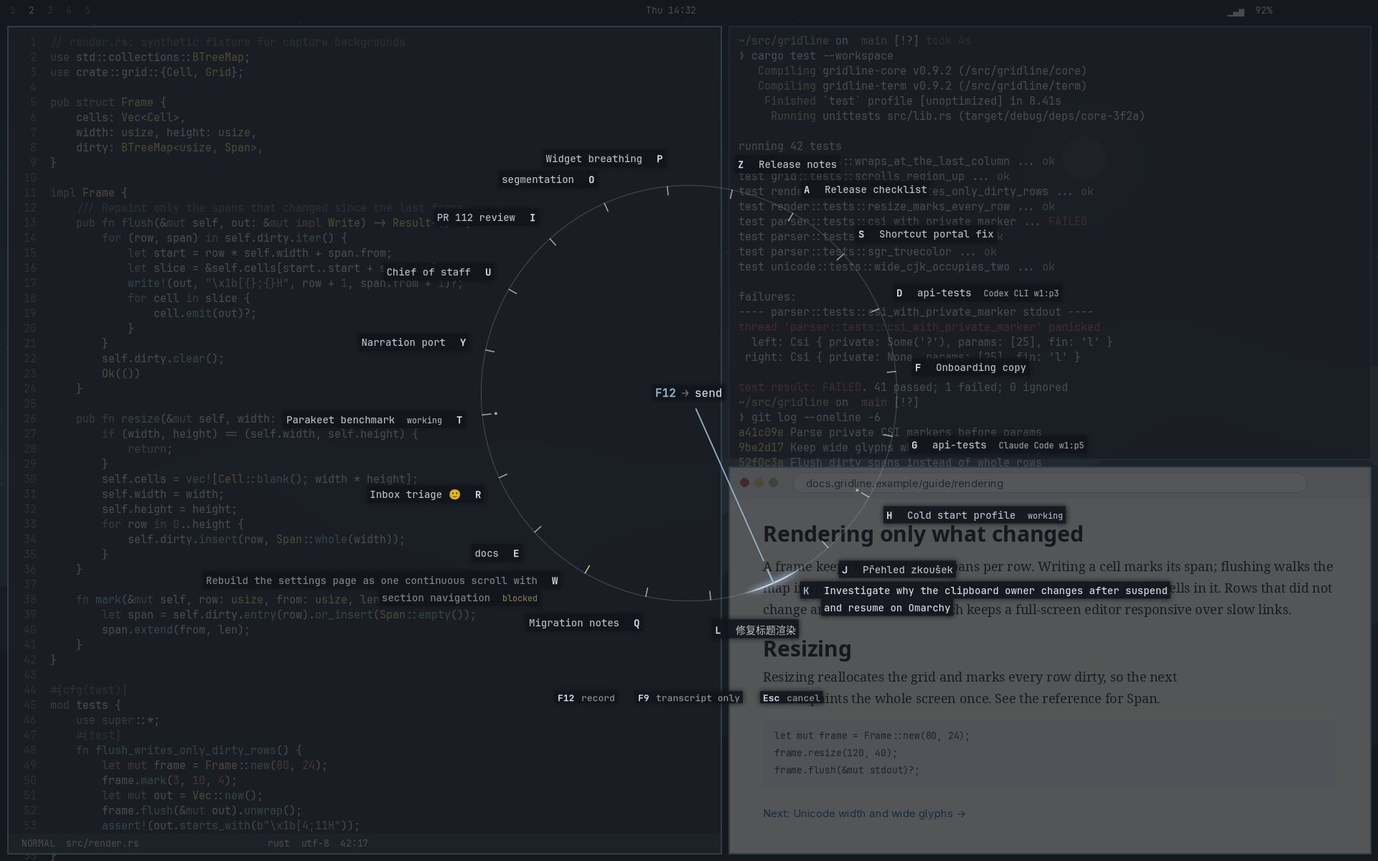
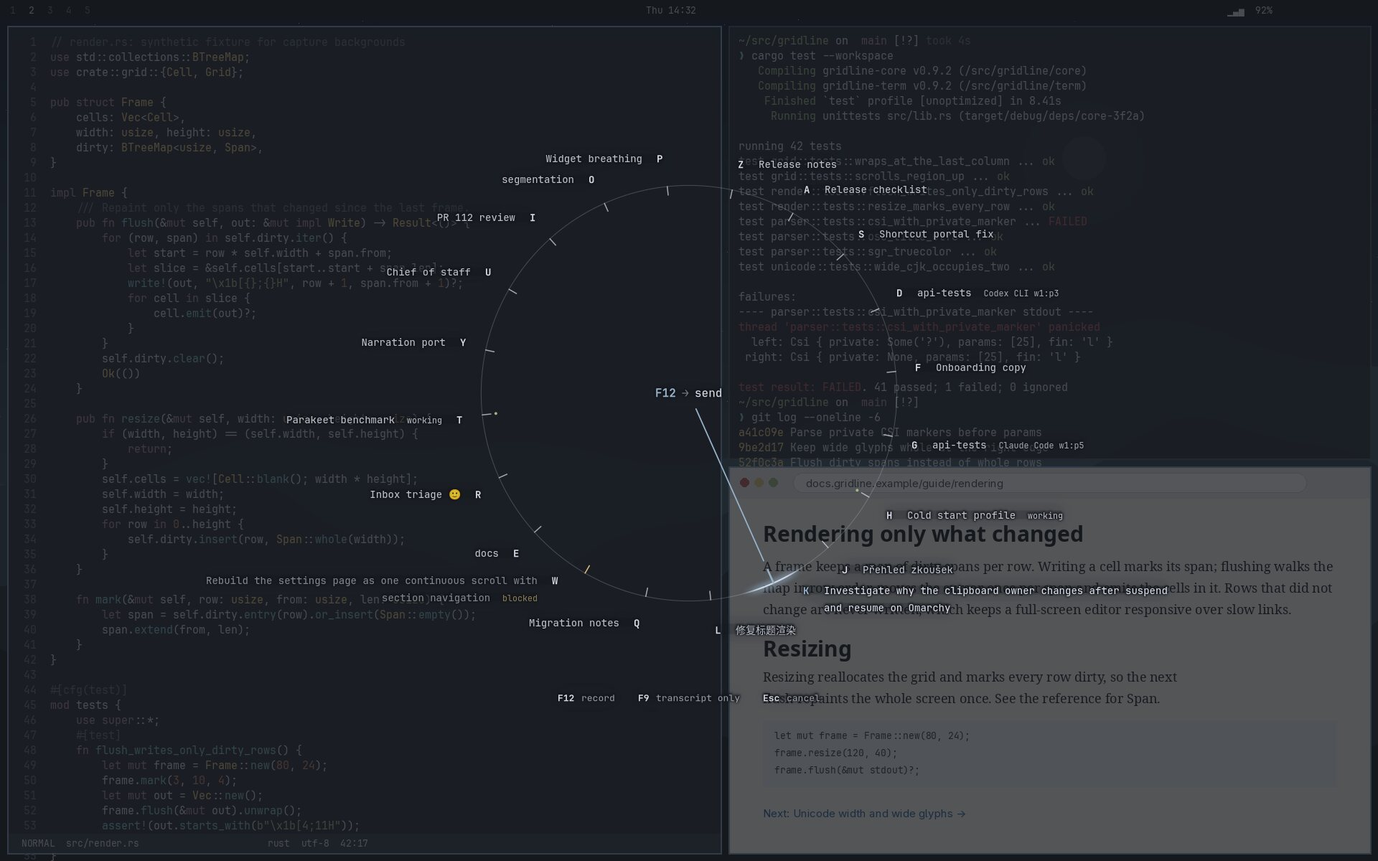
Turn the hand where it stands on a new choice and clear only the glyphs fully
A second finish review found two regressions. A second choice made after
the hand had swept past the new tick let it carry on about 5 degrees and
come back, which read as a bounce. And the cleared cells, stronger than
the wash, read as panels over empty ground: faint dark boxes on Nord and
near-white chips on the light theme.

Motion:
- A new choice keeps the hand's place and its speed toward the new tick,
  held just firm enough not to pass it, and drops any speed away from it,
  so from that moment the hand never moves further from its tick. A test
  checks this frame by frame for ticks ahead, behind and further on.

Look:
- Each label's glyphs, spread 1.5 px and softened, are cleared at 0.9
  (0.6 on a light theme), and the pager arrows along their own icon, so
  desktop text never runs through a letter.
- Around them a faint cell, feathered over 20 px, quiets the desktop
  between letters and lines at 0.3 (0.05 on a light theme): over empty
  ground it is about one step of lightness from the wash. The strengths
  come from a sweep at 100% over empty ground and busy text.

The gallery's motion reel also records each frame's time. The record has
the sweep, the corrected plot of the hand against time, fresh captures in
every palette and the window fallback, the re-rendered motion reel and
its frame costs pooled over three runs.

Changed region(s): [[0.5312, 0.6475, 0.8438, 0.74], [0.625, 0.5858, 0.7812, 0.6167], [0.5312, 0.8017, 0.5938, 0.8325]]

diff --git a/rust/mluva-gtk/src/agent_session_wheel/stage.rs b/rust/mluva-gtk/src/agent_session_wheel/stage.rs
@@ -20,15 +20,17 @@ const FOOTER_GAP: f64 = 16.;
 /// an opaque ground instead.
 const WASH: f32 = 0.72;
 /// Under every label the overlay clears the desktop, as a terminal overwrites the cells it prints
-/// in, in two layers of the wash's colour. Close behind the glyphs, out to `GLYPH_REACH` pixels
-/// and softened over `GLYPH_SOFT`, it clears at the full strength, so desktop text never runs
-/// through a letter. Around them a faint cell reaches `CELL_PAD` beyond the text sideways and up
-/// and down and feathers out over `FEATHER` pixels: it quiets desktop text between the letters
-/// and lines yet stays so light that over empty ground it cannot be told from the wash, so it is
-/// never a panel. Each strength is `(glyphs, cell)`; a light wash over a dark desktop lifts the
-/// ground the most, so the light theme clears more gently.
+/// in, in two layers of the wash's colour. Close behind the glyphs and pager arrows, out to
+/// `GLYPH_REACH` pixels and softened over `GLYPH_SOFT`, it clears at the full strength, so desktop
+/// text never runs through a letter. Around them a faint cell reaches `CELL_PAD` beyond the text
+/// sideways and up and down and feathers out over `FEATHER` pixels: it quiets desktop text between
+/// the letters and lines, yet over empty ground it differs from the wash by about one step of
+/// lightness (CIE L*), too little to read as a panel. Each strength is `(glyphs, cell)`. A light
+/// wash over a dark desktop moves furthest from the ground, about seven times as far as a dark
+/// wash, while desktop text through it shows lighter than the ground and the labels darker; so the
+/// light theme clears more gently and its labels still win.
 const CLEAR_DARK: (f32, f32) = (0.9, 0.3);
-const CLEAR_LIGHT: (f32, f32) = (0.6, 0.1);
+const CLEAR_LIGHT: (f32, f32) = (0.6, 0.05);
 const GLYPH_REACH: f32 = 1.5;
 const GLYPH_SOFT: f64 = 2.;
 const CELL_PAD: (f64, f64) = (8., 4.);
@@ -415,7 +417,7 @@ mod imp {
                     .collect(),
                 glyphs: glyphs
                     .iter()
-                    .map(|(layout, at, shown)| (layout.text(), [at.x(), at.y(), *shown]))
+                    .map(|(ink, at, shown)| (ink.text(), [at.x(), at.y(), *shown]))
                     .collect(),
                 paint: [
                     color.red(),
@@ -703,14 +705,32 @@ pub(super) struct CellKey {
 /// covers.
 type BakedCells = (CellKey, gdk::Texture, graphene::Rect);
 
+/// What the stage paints for a label or an image: a label's whole layout, or a named icon such
+/// as a pager arrow with its name and its side in pixels.
+#[derive(Clone)]
+enum Ink {
+    Text(gtk::pango::Layout),
+    Icon(glib::GString, gdk::Paintable, f32),
+}
+
+impl Ink {
+    /// What it shows, so a bake can tell when it changes.
+    fn text(&self) -> glib::GString {
+        match self {
+            Self::Text(layout) => layout.text(),
+            Self::Icon(name, ..) => name.clone(),
+        }
+    }
+}
+
 /// One laid-out line of a label, in the stage's coordinates: its logical box, its baseline,
 /// whether it is the text of a name or legend entry that has keyboard focus, and on the first
-/// line of each label, the label's layout with where its origin sits.
+/// line of each label or for an image, what is painted there with where its origin sits.
 struct Line {
     rect: graphene::Rect,
     baseline: f64,
     focused: bool,
-    layout: Option<(gtk::pango::Layout, graphene::Point)>,
+    ink: Option<(Ink, graphene::Point)>,
 }
 
 /// Every line of text in `widget` and the widgets below it, as the stage will paint it, with
@@ -737,7 +757,7 @@ fn text_lines(stage: &Stage, widget: &gtk::Widget, found: &mut dyn FnMut(Line)) 
         let (ox, oy) = label.layout_offsets();
         let mut whole = label
             .compute_point(stage, &graphene::Point::new(ox as f32, oy as f32))
-            .map(|origin| (layout.clone(), origin));
+            .map(|origin| (Ink::Text(layout.clone()), origin));
         let scale = f64::from(gtk::pango::SCALE);
         let mut iter = layout.iter();
         loop {
@@ -758,7 +778,7 @@ fn text_lines(stage: &Stage, widget: &gtk::Widget, found: &mut dyn FnMut(Line)) 
                     ),
                     baseline: baseline + lift,
                     focused,
-                    layout: whole.take(),
+                    ink: whole.take(),
                 });
             }
             if !iter.next_line() {
@@ -767,13 +787,35 @@ fn text_lines(stage: &Stage, widget: &gtk::Widget, found: &mut dyn FnMut(Line)) 
         }
         return;
     }
-    if widget.is::<gtk::Image>() {
+    if let Some(image) = widget.downcast_ref::<gtk::Image>() {
         if let Some(bounds) = widget.compute_bounds(stage) {
+            // The icon as GTK draws it: at its pixel size, centred in the image's box.
+            let ink = image.icon_name().map(|name| {
+                let side = match image.pixel_size() {
+                    side if side > 0 => side,
+                    _ if image.icon_size() == gtk::IconSize::Large => 32,
+                    _ => 16,
+                };
+                let paintable = gtk::IconTheme::for_display(&image.display()).lookup_icon(
+                    &name,
+                    &[],
+                    side,
+                    image.scale_factor(),
+                    gtk::TextDirection::None,
+                    gtk::IconLookupFlags::empty(),
+                );
+                let side = side as f32;
+                let origin = graphene::Point::new(
+                    bounds.x() + (bounds.width() - side) / 2.,
+                    bounds.y() + (bounds.height() - side) / 2.,
+                );
+                (Ink::Icon(name, paintable.upcast(), side), origin)
+            });
             found(Line {
                 rect: bounds,
                 baseline: f64::from(bounds.y() + bounds.height()),
                 focused: false,
-                layout: None,
+                ink,
             });
         }
         return;
@@ -826,33 +868,32 @@ fn cell_boxes(
     bounds.map(|bounds| (boxes, bounds))
 }
 
-/// Each shown label's layout with where its paint sits and how much it shows.
-fn glyph_runs(
-    lines: &[(Line, f64, (f64, f64))],
-) -> Vec<(gtk::pango::Layout, graphene::Point, f32)> {
+/// What each shown label or image paints, with where its paint sits and how much it shows.
+fn glyph_runs(lines: &[(Line, f64, (f64, f64))]) -> Vec<(Ink, graphene::Point, f32)> {
     lines
         .iter()
         .filter(|(_, shown, _)| *shown > 0.)
         .filter_map(|(line, shown, (dx, dy))| {
-            let (layout, origin) = line.layout.as_ref()?;
+            let (ink, origin) = line.ink.as_ref()?;
             let at = graphene::Point::new(
                 (f64::from(origin.x()) + dx) as f32,
                 (f64::from(origin.y()) + dy) as f32,
             );
-            Some((layout.clone(), at, *shown as f32))
+            Some((ink.clone(), at, *shown as f32))
         })
         .collect()
 }
 
 /// Paint the cleared cells: one mask, so layers that meet or overlap never darken twice, filled
 /// with `color` over `bounds`. The mask holds the faint feathered cells and, over them, every
-/// label's glyphs spread a little in each direction and softened, at the full strength.
+/// label's glyphs and every image spread a little in each direction and softened, at the full
+/// strength.
 fn paint_cells(
     snapshot: &gtk::Snapshot,
     color: gtk::gdk::RGBA,
     (glyph_strength, cell_strength): (f32, f32),
     boxes: &[(graphene::Rect, f32)],
-    glyphs: &[(gtk::pango::Layout, graphene::Point, f32)],
+    glyphs: &[(Ink, graphene::Point, f32)],
     bounds: &graphene::Rect,
 ) {
     snapshot.push_mask(gtk::gsk::MaskMode::Alpha);
@@ -874,9 +915,9 @@ fn paint_cells(
     }
     snapshot.push_blur(GLYPH_SOFT);
     let black = gtk::gdk::RGBA::new(0., 0., 0., 1.);
-    for (layout, at, shown) in glyphs {
-        // The glyphs and eight copies around them, as one shape at the label's strength.
+    for (ink, at, shown) in glyphs {
         snapshot.push_opacity(f64::from(shown * glyph_strength));
+        // The glyphs or the icon and eight copies around them, as one shape at the strength.
         for step in 0..9 {
             let (dx, dy) = if step == 0 {
                 (0., 0.)
@@ -886,7 +927,12 @@ fn paint_cells(
             };
             snapshot.save();
             snapshot.translate(&graphene::Point::new(at.x() + dx, at.y() + dy));
-            snapshot.append_layout(layout, &black);
+            match ink {
+                Ink::Text(layout) => snapshot.append_layout(layout, &black),
+                Ink::Icon(_, paintable, side) => {
+                    paintable.snapshot(snapshot, f64::from(*side), f64::from(*side))
+                }
+            }
             snapshot.restore();
         }
         snapshot.pop();
@@ -1096,7 +1142,8 @@ impl Stage {
     }
 
     /// Turn the hand to `angle`, or put it away when nothing is chosen. A swing springs from
-    /// wherever the hand is, at its present speed; anything else places it at once.
+    /// wherever the hand is, keeping its speed toward the new tick and dropping any away from it;
+    /// anything else places it at once.
     pub fn aim(&self, angle: Option<f64>, swing: bool) {
         let swing = swing && (self.animated() || self.imp().manual.get());
         self.imp().motion.borrow_mut().aim(angle, swing);
@@ -1263,29 +1310,21 @@ mod tests {
     }
 
     #[test]
-    fn a_new_choice_mid_swing_bends_the_swing_and_never_passes_the_new_tick() {
-        // A tick just ahead of a hand already rushing toward it, a tick short of the first one,
-        // and a tick further on: the swing bends and never passes the new tick.
-        for (frames, to) in [(1, 60.), (2, 120.), (3, 250.)] {
-            let (_, past) = retarget(frames, to);
-            assert!(past <= 1e-9, "{frames} frames, {to}°: passes it by {past}°");
-        }
-    }
-
-    #[test]
-    fn after_a_new_choice_the_hand_never_moves_further_from_its_tick() {
-        // The hand has just passed the new tick, has passed it long ago, or heads the other way
-        // round entirely: it turns where it is and closes on the tick.
-        // Ahead, and further on, it keeps its speed and stops on the tick.
+    fn after_a_new_choice_the_hand_never_moves_further_from_its_tick_nor_passes_it() {
         for (frames, to) in [
+            // Ahead of the hand swinging from 30° to 200°: just in front of it, halfway to the
+            // first tick and a degree short of it.
+            (1, 60.),
+            (2, 120.),
+            (5, 199.),
+            // Behind it: just swept past, swept past long ago, back beyond where the swing
+            // started, and passed mid-swing.
             (2, 60.),
             (6, 60.),
             (4, 20.),
             (8, 100.),
-            (1, 60.),
-            (2, 120.),
+            // Further on, beyond the first tick.
             (3, 250.),
-            (5, 199.),
         ] {
             let (grows, past) = retarget(frames, to);
             assert!(

diff --git a/rust/mluva-gtk/examples/session_wheel_gallery.rs b/rust/mluva-gtk/examples/session_wheel_gallery.rs
@@ -484,7 +484,8 @@ fn motion(output: &Path) -> glib::ExitCode {
     std::fs::create_dir_all(&frames).unwrap();
     let mut index = 0;
     let mut timings: Vec<(String, f64)> = vec![];
-    // Every frame's scene and the hand's bearing, for a plot of the hand against time.
+    // Every frame's scene, the hand's bearing and how long the frame took, for a plot of the
+    // hand against time and to find slow frames.
     let mut hands: Vec<serde_json::Value> = vec![];
     let mut play = |wheel: &SessionWheel, scene: &str, count: usize| {
         for _ in 0..count {
@@ -493,7 +494,12 @@ fn motion(output: &Path) -> glib::ExitCode {
             settle(1);
             let seconds = frame(&wheel.window, &frames.join(format!("{index:05}.png")));
             timings.push((scene.to_owned(), seconds));
-            hands.push(serde_json::json!({"frame": index, "scene": scene, "hand": hand}));
+            hands.push(serde_json::json!({
+                "frame": index,
+                "scene": scene,
+                "hand": hand,
+                "ms": seconds * 1000.,
+            }));
             index += 1;
         }
     };

diff --git a/docs/verification/f12-session-wheel/README.md b/docs/verification/f12-session-wheel/README.md
@@ -17,7 +17,7 @@ A session without a title shows its Herdr agent name, then its pane ID. This is 
 
 On Omarchy the wheel floats over the desktop like Omarchy's own launcher, with no window, frame or card. It is a wlr-layer-shell overlay that covers the focused monitor, panels included, and takes the keyboard while it is shown.
 
-The desktop shows through. Between it and the dial lies one flat translucent wash: the theme's canvas pulled 60% toward black (toward white on a light theme), like a terminal's background, at 72%. It has no gradient, so nothing can band, and there is no disc, panel or vignette. About 28% of the desktop's contrast survives it, against 12% for a canvas-grey wash at 88%, the strength needed for the same legibility without the darker colour ([sweep](wash-sweep.jpg)). Under every line of text the overlay clears the cells, as a terminal overwrites the cells it prints in: the wash's colour at 0.9, about a cell beyond the text sideways and 4 px above and below, feathered over 8 px, with no radius or stroke. A key and the first line of its name are cleared as one span. Over the empty wash the cleared cells cannot be seen, so they are no panel; over the desktop they keep terminal text or a bright page from reading as part of a name, while the desktop between the names stays visible. Mluva's managed Hyprland Lua gives the `mluva-session-wheel` namespace a `no_anim` layer rule, as Omarchy does for its own menus, so the wheel appears with no compositor fade of its own; the dial then fades in over at most 160 ms. The rule is kept as one handle across reloads: a live rule is reused, a switched-off one is switched on and a rule the compositor dropped is made again, so reloads never stack duplicates. It runs under `pcall` after the bindings, so a Hyprland without layer rules, or any error in the rule, never stops the bindings from applying. Clicking anywhere outside a control dismisses the overlay, like Escape.
+The desktop shows through. Between it and the dial lies one flat translucent wash: the theme's canvas pulled 60% toward black (toward white on a light theme), like a terminal's background, at 72%. It has no gradient, so nothing can band, and there is no disc, panel or vignette. About 28% of the desktop's contrast survives it, against 12% for a canvas-grey wash at 88%, the strength needed for the same legibility without the darker colour ([sweep](wash-sweep.jpg)). Under every label the overlay clears the desktop, as a terminal overwrites the cells it prints in, in two layers of the wash's colour. Tight behind the glyphs and the pager arrows, spread 1.5 px and softened over 2 px, it clears at 0.9 (0.6 on a light theme), so terminal text or a bright page never runs through a letter. Around them a faint cell reaches about a cell beyond the text sideways and 4 px above and below, feathered over 20 px, at 0.3 (0.05 on a light theme): it quiets desktop text between the letters and lines, holding it to 70% of its washed contrast, yet over empty ground it differs from the wash by about one step of lightness, too little to read as a panel. A key and the first line of its name share one cell. A light wash over a dark desktop moves furthest from the ground, about seven times as far as a dark wash, while desktop text through it shows lighter than the ground and the labels darker, so the light theme clears more gently and its labels still win ([sweep of cell strengths, at 100%](cell-sweep.png)). The desktop between the names stays visible. Mluva's managed Hyprland Lua gives the `mluva-session-wheel` namespace a `no_anim` layer rule, as Omarchy does for its own menus, so the wheel appears with no compositor fade of its own; the dial then fades in over at most 160 ms. The rule is kept as one handle across reloads: a live rule is reused, a switched-off one is switched on and a rule the compositor dropped is made again, so reloads never stack duplicates. It runs under `pcall` after the bindings, so a Hyprland without layer rules, or any error in the rule, never stops the bindings from applying. Clicking anywhere outside a control dismisses the overlay, like Escape.
 
 On X11, or on compositors without layer-shell, the same wheel opens as an ordinary frameless dialog whose ground is the same wash colour, opaque, since a window there cannot be relied on to show the desktop through. The offscreen tests use that path.
 
@@ -36,7 +36,7 @@ The dial is drawn live in a few thin lines with GtkSnapshot; nothing is baked, s
 - **Status line.** One quiet line just under the names explains a level, a draft, a page or a withdrawn choice: "Arrives as a message from another Claude session", "This session has no inbox", "Chosen on page 2", "Answer its prompt where it runs, or choose another session", "Mluva can't find it now; choose another session". It always holds one line, so a new choice moves nothing.
 - **Legend.** `F12 record   F9 transcript only   Esc cancel`, under the status line, with the pager beyond 26 sessions. Record dims while it is withdrawn. The hub and the legend both show F12: the hub says what pressing it will do; the legend's Record is the real button, the one the pointer and a screen reader act through.
 
-Per frame the stage draws the wash, the cleared cells (baked once into a texture and reused until a name moves or focus changes), the ring, the trace, the ticks and the hand: a few strokes and one small blur clipped to the lit arc.
+Per frame the stage draws the wash, the cleared cells (baked once into a texture and reused until a name moves or its text changes), the ring, the trace, the ticks and the hand: a few strokes and one small blur clipped to the lit arc.
 
 ## Motion
 
@@ -75,20 +75,22 @@ The opening and a swing to the opposite side at fixed timestamps, over the busy 
 
 The whole reel as it plays, from the production renderer on a stepped 60 fps clock ([GIF](motion.gif)): opening with 6 and 20 sessions, a short hop, a hop across the dial, a new choice mid-swing, a blocked choice and a page turn at 30 sessions.
 
-Frame cost on the cairo renderer the private desktop uses, from a release build of the gallery: each frame snapshots the whole 1920×1200 window and renders it to a texture. That is a worst case, since on screen GTK repaints only what changed; the budget at 60 fps is 16.7 ms.
+Frame cost on the cairo renderer the private desktop uses, from a release build of the gallery: each frame snapshots the whole 1920×1200 window and renders it to a texture. That is a worst case, since on screen GTK repaints only what changed; the budget at 60 fps is 16.7 ms. The figures pool three runs of the reel, taken while the machine was busy with other work (load average about 8 on 20 threads).
 
-| Scene | Frames | Median ms | 95th percentile ms | Slowest ms |
+| Scene | Frames per run | Median ms | 95th percentile ms | Slowest ms |
 | --- | --- | --- | --- | --- |
-| Opening, 6 sessions | 45 | 8.7 | 9.5 | 10.2 |
-| Opening, 20 sessions | 45 | 10.1 | 12.1 | 14.7 |
-| Short hop | 30 | 9.3 | 10.5 | 10.7 |
-| Hop across the dial | 40 | 11.1 | 15.0 | 16.1 |
-| New choice mid-swing | 40 | 11.4 | 15.9 | 16.8 |
-| Blocked choice | 45 | 10.7 | 14.6 | 15.9 |
-| Opening, 30 sessions | 36 | 11.3 | 12.7 | 13.3 |
-| Page turn | 30 | 4.3 | 5.3 | 5.5 |
+| Opening, 6 sessions | 45 | 9.0 | 14.3 | 20.7 |
+| Opening, 20 sessions | 45 | 9.1 | 12.8 | 18.9 |
+| Short hop | 30 | 8.0 | 9.8 | 12.2 |
+| Hop across the dial | 40 | 9.4 | 14.2 | 21.2 |
+| New choice mid-swing | 40 | 9.6 | 13.9 | 16.4 |
+| Blocked choice | 45 | 9.7 | 14.2 | 16.6 |
+| Opening, 30 sessions | 36 | 10.1 | 13.8 | 15.1 |
+| Page turn | 30 | 3.2 | 4.5 | 6.8 |
 
-A new choice takes 0.4–0.8 ms before the swing's first frame can be drawn, 2.2 ms when the page changes: geometry depends only on the names and the room, so a choice reuses the last arrangement instead of measuring every name again. The trace's blur is clipped to the lit arc, the opening ring is drawn as arcs rather than a masked circle, and the cleared cells are baked once and reused while the hand swings.
+7 of 933 frames went over 16.7 ms, spread across settled and moving frames and absent from one run entirely, so they come from the load rather than from any step of the dial. Frames that bake the cleared cells afresh, every frame of the opening, cost the same as settled ones: a median of 8.6–10.4 ms against 8.9–9.8 ms.
+
+A new choice takes 0.3–0.5 ms before the swing's first frame can be drawn, 2.9 ms when the page changes: geometry depends only on the names and the room, so a choice reuses the last arrangement instead of measuring every name again. The trace's blur is clipped to the lit arc, the opening ring is drawn as arcs rather than a masked circle, and the cleared cells are baked once and reused while the hand swings.
 
 ## Layout
 
@@ -149,6 +151,7 @@ The window fallback on X11, at its natural size:
 | Names beside the poles were centred over their anchor, so two keys could sit between two ticks | Names hang wholly to their side; each key sits at its tick |
 | A light on a spring of its own lagged the hand mid-swing | The trace is drawn at the hand and settles with it |
 | Desktop text in the same mono face read as part of a name, through a glyph halo ([before and after](review-fix1-legibility.png)) | The cells under every line are cleared, as a terminal does |
+| The cleared cells, stronger than the wash, read as panels over empty ground: faint dark boxes on Nord, near-white chips on the light theme ([sweep](cell-sweep.png)) | Full clearing only tight behind the glyphs; around them a faint, widely feathered cell, about one step of lightness from the wash over empty ground |
 | At twenty sessions the trace was a smudge over the washed page, about 1.25:1 ([before and after](review-fix2-trace.png)) | A near-white core over a 10 px halo, about 5:1, with a low fade of at most 0.3 around it |
 | A wrapped name at twenty pushed its neighbours up to 93 px from their ticks ([before and after](review-fix4-tick-to-name.png)) | Wrapped names grow toward the equator and pushed names slide back; every key within 72 px, 51 px at worst with the gallery's names |
 | Keys read as part of their names | Keys in full ink, two cells from the name, names at 85% |
@@ -164,11 +167,11 @@ The eleven artifacts Daniel confirmed for the wheel before the watch stay fixed:
 
 | Boundary | Evidence |
 | --- | --- |
-| Native gate | `make linux-test` with `TMPDIR` on disk passed: 311 passed, zero failed, 72 gated or ignored. Both strict Clippy configurations, formatting and generated-feature consistency passed. Unit tests cover, besides the earlier geometry tests: every key within 72 px of its tick, wrapped names included, for 6, 20 and 26 sessions; the hand starting clear of the hub text at every bearing; the trace's bright core on the chosen tick, at most 0.3 at a neighbour and a low fade that reads at any count, and its tail only while the hand turns; the hand never passing its tick on a short hop or across the dial; a new choice mid-swing, toward a tick ahead, behind or further on, bending the swing without a jump and without passing, and the hand's distance to its new tick never growing from one frame to the next; the chosen tick growing while the previous one shrinks; the opening drawing clockwise from one o'clock and bringing every tick and name in within 0.3 s on the strong ease-out; the light dimming in travel and brightening on arrival; amber easing in; a page turn and a hover lift finishing; everything placed at rest with animations off; and the wash deepening the canvas away from the ink. |
+| Native gate | `make linux-test` with `TMPDIR` on disk passed: 314 passed, zero failed, 72 gated or ignored. Both strict Clippy configurations, formatting and generated-feature consistency passed. Unit tests cover, besides the earlier geometry tests: every key within 72 px of its tick, wrapped names included, for 6, 20 and 26 sessions; the hand starting clear of the hub text at every bearing; the trace's bright core on the chosen tick, at most 0.3 at a neighbour and a low fade that reads at any count, and its tail only while the hand turns; the hand never passing its tick on a short hop or across the dial; a new choice mid-swing, toward a tick ahead, behind or further on, bending the swing without a jump and without passing, and the hand's distance to its new tick never growing from one frame to the next; the chosen tick growing while the previous one shrinks; the opening drawing clockwise from one o'clock and bringing every tick and name in within 0.3 s on the strong ease-out; the light dimming in travel and brightening on arrival; amber easing in; a page turn and a hover lift finishing; everything placed at rest with animations off; and the wash deepening the canvas away from the ink. |
 | Real application | `make linux-agent-voice-test` passed: 20 captures, 18 recognitions, five guarded submissions, two queued through Claude Code's inbox, a Codex send-if-idle and a busy Codex thread keeping its draft. Private X11 keys exercise selection, Escape, second F12, F9, paging at 30 sessions, server reorder and target disappearance, and the wheel fits the private screen from zero to 20 sessions. The four known narrow-editor allocation warnings remain and none comes from the wheel. |
 | Shortcut portal | Not rerun: this change touches neither the shortcuts nor the Hyprland Lua. |
-| Visual states | The `session_wheel_gallery` example renders the production wheel in 30 synthetic captures per palette (one, three, six, 20 and 30 sessions; long, duplicate, Czech, CJK and emoji names; blocked, missing, draft-only and untitled sessions; every delivery level; no selection; empty; hover; keyboard focus on a choice, on Record and on Cancel; the hand in flight and at rest), as an overlay that keeps its alpha or as the window fallback. It audits itself and fails if a name leaves the screen, two names overlap, or three status changes plus a new choice on twenty sessions move any name or any key; a build with the name not taking the caption's room fails that audit, as it should. Nord, default dark and default light overlays and the Nord and light window fallback passed: layout independent of status and choice. With `motion` as its last argument it renders the motion reel frame by frame on a stepped 60 fps clock and times each frame. |
-| Visual review | Daniel rejected the watch as far too complex and asked for a minimal, terminal-like, see-through dial that keeps a lighting quality. Three light treatments (a glow on the hand and chosen tick, a trace along the ring, a phosphor wedge) were compared at 1, 6 and 20 sessions over the busy desktop; Daniel picked the trace. An impeccable critique of every state and palette followed: an assessment of design specificity, Nielsen's heuristics, cognitive load and two personas (26/40, judged authored for this product rather than interchangeable) and the bundled detector (no findings in the stylesheet). Applied: keys pinned at their ticks whatever caption follows a name (a real regression, now audited by the gallery), a reason and a next step for blocked and gone, higher text contrast and halos, the legend under the names, a focus underline and tick lift, a crisp trace on light themes, a 16 px hub, amber for `waiting` and a wider hollow draft tick. Kept as they are, with the brief: positional letters, a ring rather than a list above about twelve sessions, and announcements for screen readers. An independent finish review of the captures then asked for cleared cells under text, a brighter trace at twenty sessions, keys nearer their ticks, brighter keys, a visible focus and a light-theme trace that reads as light; all are applied, with before and after crops linked in the table above. Its reading of the pager as colliding with `Esc cancel` was desktop text showing through between them: the allocations never overlapped, and the gallery now audits the legend and pager for overlap and squeezing. The motion was then checked against Emil Kowalski's animation standards. |
+| Visual states | The `session_wheel_gallery` example renders the production wheel in 30 synthetic captures per palette (one, three, six, 20 and 30 sessions; long, duplicate, Czech, CJK and emoji names; blocked, missing, draft-only and untitled sessions; every delivery level; no selection; empty; hover; keyboard focus on a choice, on Record and on Cancel; the hand in flight and at rest), as an overlay that keeps its alpha or as the window fallback. It audits itself and fails if a name leaves the screen, two names overlap, or three status changes plus a new choice on twenty sessions move any name or any key; a build with the name not taking the caption's room fails that audit, as it should. Nord, default dark and default light overlays and the Nord and light window fallback passed: no name off screen, no overlap, nothing squeezed, every key within 72 px of its tick (worst 51 px at 20 sessions, 54 px at 26), and layout independent of status and choice. With `motion` as its last argument it renders the motion reel frame by frame on a stepped 60 fps clock and records each frame's time and the hand's bearing. |
+| Visual review | Daniel rejected the watch as far too complex and asked for a minimal, terminal-like, see-through dial that keeps a lighting quality. Three light treatments (a glow on the hand and chosen tick, a trace along the ring, a phosphor wedge) were compared at 1, 6 and 20 sessions over the busy desktop; Daniel picked the trace. An impeccable critique of every state and palette followed: an assessment of design specificity, Nielsen's heuristics, cognitive load and two personas (26/40, judged authored for this product rather than interchangeable) and the bundled detector (no findings in the stylesheet). Applied: keys pinned at their ticks whatever caption follows a name (a real regression, now audited by the gallery), a reason and a next step for blocked and gone, higher text contrast and halos, the legend under the names, a focus underline and tick lift, a crisp trace on light themes, a 16 px hub, amber for `waiting` and a wider hollow draft tick. Kept as they are, with the brief: positional letters, a ring rather than a list above about twelve sessions, and announcements for screen readers. An independent finish review of the captures then asked for cleared cells under text, a brighter trace at twenty sessions, keys nearer their ticks, brighter keys, a visible focus and a light-theme trace that reads as light; all are applied, with before and after crops linked in the table above. Its reading of the pager as colliding with `Esc cancel` was desktop text showing through between them: the allocations never overlapped, and the gallery now audits the legend and pager for overlap and squeezing. The motion was then checked against Emil Kowalski's animation standards. A second pass of the finish review confirmed those fixes and found two regressions, both now fixed: the hand could carry on about 5° past a newly chosen tick and come back, and the cleared cells read as panels over empty ground. |
 | Live overlay | The previous build of this dial (`98b5cce`) was shown to Daniel as a real overlay on his desktop with synthetic sessions. He kept the styling and asked for smoother, bounce-free motion that never snaps and for F12 back in the hub; this version answers that. This version has not yet been shown live: no live F12 path, and no check of the cleared cells over his real desktop or of frame times on the GPU renderer. The Lenovo's 3840×2400 screen at scale 2 is not measured. |
 
 Render the gallery inside the private desktop at the screen being judged:
